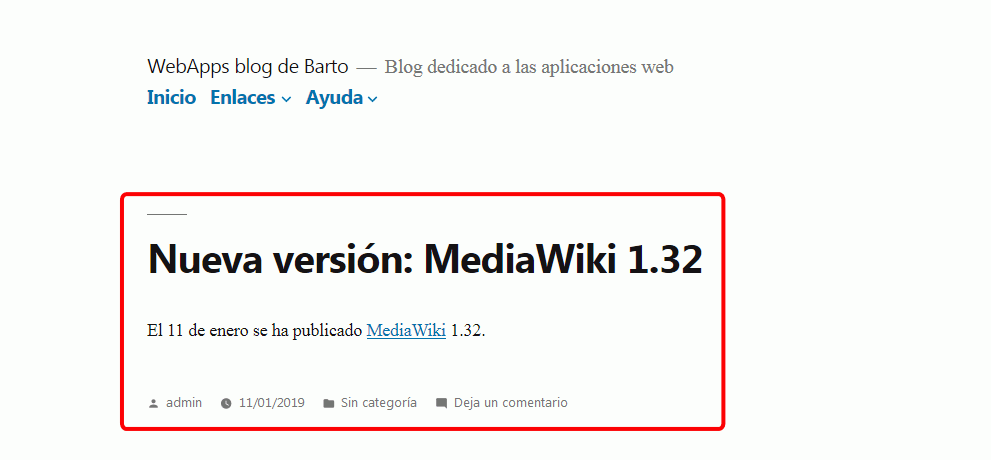
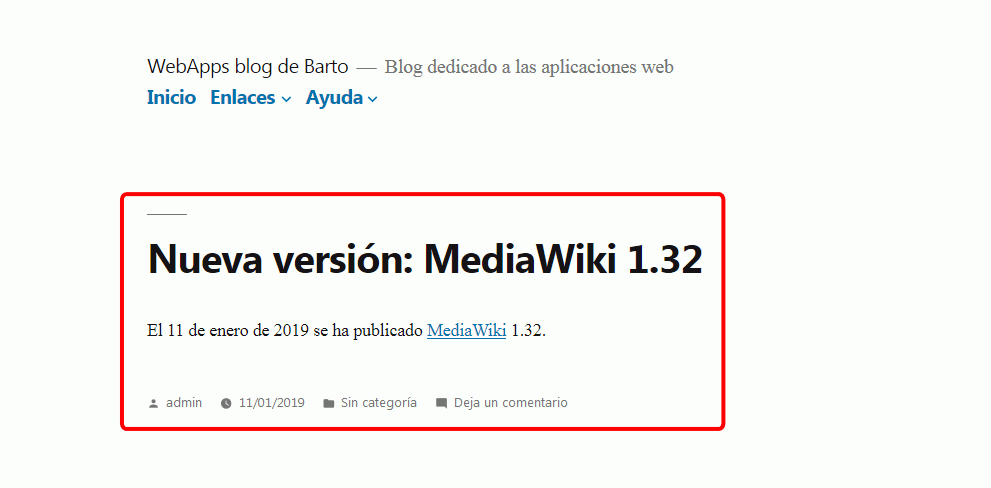
Empiezo a actualizar WordPress (3)

diff --git a/lecciones/wordpress-3.html b/lecciones/wordpress-3.html
@@ -45,7 +45,7 @@
     </div>
   </nav>
 
-  <p>En esta lección se proponen ejercicios para conocer y utilizar <strong>WordPress</strong>. Se pueden consultar las <a href="wordpress-3-soluciones.html">soluciones de estos ejercicios de WordPress</a>, aunque se recomienda intentar realizarlos primero sin recurrir a estas soluciones.</p>
+  <p class="incompleto"><img src="../varios/iconos/icono-en-construccion.svg" alt="En construcción" width="55" height="48" />Estos ejercicios están pendientes de actualizar a la versión WordPress 5.0.</p>
 
   <p>El objetivo de esta página de ejercicios es practicar el uso de widgets y plugins en WordPress.</p>
 
@@ -56,17 +56,17 @@
   <p>La información que se ofrece en la web o en la aplicación es prácticamente la misma, como puede verse en la captura siguiente, pero en la aplicación hace referencia a la compatibilidad con la versión instalada e incluye un botón para instalar el plugin directamente.</p>
 
   <p class="captura">
-    <img src="../img/wordpress/3-0-1-info-plugins.png" alt="WordPress. Información sobre los plugins" width="451" height="269" />
-    <img src="../img/wordpress/3-0-2-info-plugins.png" alt="WordPress. Información sobre los plugins" width="489" height="280" />
+    <img src="../img/wordpress/3-0-1-info-plugins.png" alt="WordPress. Información sobre los plugins" width="460" height="277" />
+    <img src="../img/wordpress/3-0-2-info-plugins.png" alt="WordPress. Información sobre los plugins" width="500" height="290" />
   </p>
 
   <p>Los plugins se instalan y desinstalan en WordPress desde el menú Plugins.</p>
 
-  <p>Los plugins propuestos en esta página estaban disponibles para WordPress 4.9 en el momento de redactar estos ejercicios (enero de 2018). Es posible que en futuro esos plugins no estén disponibles para versiones posteriores de WordPress, o incluso hayan dejado de estar disponibles para cualquier versión. En ese caso, se pueden utilizar otros plugins de los disponibles en ese momento.</p>
+  <p>Los plugins propuestos en esta página estaban disponibles para WordPress 5.0 en el momento de redactar estos ejercicios (enero de 2019). Es posible que en futuro esos plugins no estén disponibles para versiones posteriores de WordPress, o incluso hayan dejado de estar disponibles para cualquier versión. En ese caso, se pueden utilizar otros plugins de los disponibles en ese momento.</p>
 
   <hr class="corta" />
 
-  <p>Los plugins que se muestran en el directorio de plugins son gratuitos, aunque muchos son las versiones gratuitas de plugins de pago.</p>
+  <p>Los plugins que se muestran en el directorio de plugins de la web de WordPress son gratuitos, aunque en muchos casos de trata de versiones gratuitas de plugins de pago, con opciones limitadas.</p>
 
   <p>En Internet existen bastantes directorios enfocados a plugins de pago como:</p>
   <ul>
@@ -82,6 +82,8 @@
   <p>La principal crítica es posiblemente que no se pueden personalizar las búsquedas (por popularidad, valoraciones, fecha de actualización, existencia de versión de pago, etc.).</p>
 
   <p>Por ejemplo, si se conoce el nombre de un plug-in, se suele encontrar antes buscando en Google (añadiendo site:https://es.wordpress.org en la búsqueda para que la respuesta sea la página del directorio de plugins) que en el propio directorio.</p>
+
+  <p>Quizás por este motivo en la web se publican continuamente cientos de páginas que recopilan recomendaciones de plugins de todo tipo. Cuando se está buscando un plugin, se aconseja buscar páginas de recomendaciones de plugins (del tipo que estemos buscando), que sean recientes y mirar en ellas qué plugins se recomiendan habitualmente. Una vez conocido el nombre de los plugins, se puede buscar en Google para encontrar su página en el directorio de plugins de WordPress.</p>
 
   <section id="ejercicio-1">
     <h2>WordPress (3) 1 - Widgets</h2>
@@ -536,7 +538,7 @@
   </section>
 
   <footer>
-    <p class="ultmod">Última modificación de esta página: 30 de enero de 2018</p>
+    <p class="ultmod">Última modificación de esta página: 14 de enero de 2019</p>
 
     <p class="licencia">
       <a rel="license" href="https://creativecommons.org/licenses/by-sa/4.0/deed.es_ES"><img src="../varios/iconos/icono-cc-by-sa.svg" alt="Licencia Creative Commons" title="Licencia Creative Commons BY-SA" width="120" height="42" /></a><br />

diff --git a/lecciones/wordpress-3-soluciones.html b/lecciones/wordpress-3-soluciones.html
@@ -48,7 +48,7 @@
     </div>
   </nav>
 
-  <p class="incompleto"><img src="../varios/iconos/icono-en-construccion.svg" alt="En construcción" width="55" height="48" />Estas soluciones están pendientes de completar.</p>
+  <p class="incompleto"><img src="../varios/iconos/icono-en-construccion.svg" alt="En construcción" width="55" height="48" />Estas soluciones están pendientes de actualizar a la versión WordPress 5.0.</p>
 
   <p>En esta lección se proponen soluciones detalladas de los <a href="wordpress-3.html">ejercicios (3) de WordPress</a>. Se recomienda intentar realizarlos primero sin recurrir a estas soluciones.</p>
 
@@ -194,7 +194,7 @@ php_value post_max_size 10M</code>
   </section>
 
   <footer>
-    <p class="ultmod">Última modificación de esta página: 25 de enero de 2018</p>
+    <p class="ultmod">Última modificación de esta página: 14 de enero de 2019</p>
 
     <p class="licencia">
       <a rel="license" href="https://creativecommons.org/licenses/by-sa/4.0/deed.es_ES"><img src="../varios/iconos/icono-cc-by-sa.svg" alt="Licencia Creative Commons" title="Licencia Creative Commons BY-SA" width="120" height="42" /></a><br />

diff --git a/lecciones/wordpress-4.html b/lecciones/wordpress-4.html
@@ -53,7 +53,7 @@
     </div>
   </nav>
 
-  <p class="incompleto"><img src="../varios/iconos/icono-en-construccion.svg" alt="En construcción" width="55" height="48" />Estos ejercicios están pendientes de actualizar a la versión WordPress 4.9.</p>
+  <p class="incompleto"><img src="../varios/iconos/icono-en-construccion.svg" alt="En construcción" width="55" height="48" />Estos ejercicios están pendientes de actualizar a la versión WordPress 5.0.</p>
 
   <p>En esta lección se proponen ejercicios para conocer y utilizar <strong>WordPress</strong>. Se pueden consultar las <a href="wordpress-4-soluciones.html">soluciones de estos ejercicios de WordPress</a>, aunque se recomienda intentar realizarlos primero sin recurrir a estas soluciones.</p>
 

diff --git a/lecciones/wordpress-4-soluciones.html b/lecciones/wordpress-4-soluciones.html
@@ -53,7 +53,7 @@
     </div>
   </nav>
 
-  <p class="incompleto"><img src="../varios/iconos/icono-en-construccion.svg" alt="En construcción" width="55" height="48" />He empezado a actualizar estas soluciones, pero no he terminado de hacerlo.</p>
+  <p class="incompleto"><img src="../varios/iconos/icono-en-construccion.svg" alt="En construcción" width="55" height="48" />Estas soluciones están pendientes de actualizar a la versión WordPress 5.0.</p>
 
   <p>En esta lección se proponen soluciones detalladas de los <a href="wordpress-4.html">ejercicios (4) de WordPress</a>. Se recomienda intentar realizarlos primero sin recurrir a estas soluciones.</p>
 

diff --git a/index.html b/index.html
@@ -219,7 +219,7 @@
   </div>
 
   <footer>
-    <p class="ultmod">Última modificación de alguna página de este curso: 11 de enero de 2019</p>
+    <p class="ultmod">Última modificación de alguna página de este curso: 14 de enero de 2019</p>
 
     <p class="licencia">
       <a rel="license" href="https://creativecommons.org/licenses/by-sa/4.0/deed.es_ES"><img src="varios/iconos/icono-cc-by-sa.svg" alt="Licencia Creative Commons" title="Licencia Creative Commons BY-SA" width="120" height="42" /></a><br />

diff --git a/lecciones/wordpress-2.html b/lecciones/wordpress-2.html
@@ -212,7 +212,7 @@
             <p>El 4 de enero de 2019 se ha publicado <a href="https://www.opencart.com/">OpenCart</a> 3.0.3.</p>
           </li>
           <li>Nueva versión: MediaWiki 1.32
-            <p>El 11 de enero se ha publicado <a href="https://www.mediawiki.org/wiki/MediaWiki">MediaWiki</a> 1.32.</p>
+            <p>El 11 de enero de 2019 se ha publicado <a href="https://www.mediawiki.org/wiki/MediaWiki">MediaWiki</a> 1.32.</p>
           </li>
         </ul>
       </li>
